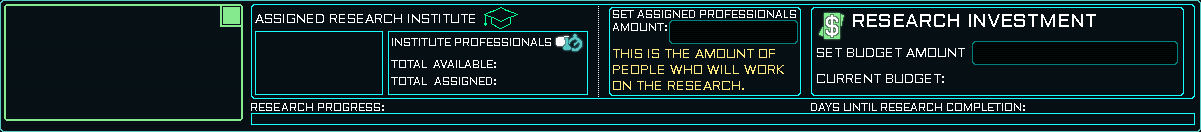
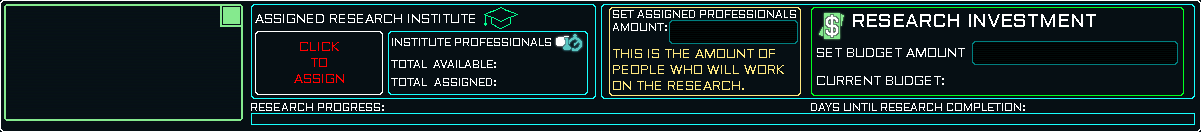
v0.051 	modified:   MenuManager.py 	modified:   __pycache__/MenuManager.cpython-311.pyc 	modified:   gfx/Interface/economic_overview/economic_overview_background.png     modified:   gfx/Interface/research_overview/active_research_background.png

diff --git a/MenuManager.py b/MenuManager.py
@@ -4903,14 +4903,23 @@ class Research_Menu:
 					
 					active_research_project_name_text_render = self.medium_scalable_font.render(active_research_project.name, False, (255,255,255))	
 					screen.blit(active_research_project_name_text_render, (709 * self.factor_x + 119 * self.factor_x - active_research_project_name_text_render.get_width()/2, 149 * self.factor_y + (index * (142 * self.factor_y)) + 158 * self.factor_y + 58 * self.factor_y - active_research_project_name_text_render.get_height()/2 + 52 * self.factor_y))					
-				
+
+					active_research_workers_amount_text_render = self.tiny_scalable_font.render(str(active_research_project.current_project_workers_amount), True, (255,255,255))	
+					screen.blit(active_research_workers_amount_text_render, (709 * self.factor_x + 506 * self.factor_x, 149 * self.factor_y + 58 * self.factor_y + (index * (142 * self.factor_y)) + 158 * self.factor_y))	
+					
+					active_research_workers_amount_text_render = self.tiny_scalable_font.render(str(active_research_project.current_project_workers_amount), True, (255,255,255))	
+					screen.blit(active_research_workers_amount_text_render, (709 * self.factor_x + 506 * self.factor_x, 149 * self.factor_y + 76 * self.factor_y + (index * (142 * self.factor_y)) + 158 * self.factor_y))	
+
+					active_research_current_budget_text_render = self.small_scalable_font.render(f' ${active_research_project.current_project_monthly_budget:,.2f}', True, (255,255,255))	
+					screen.blit(active_research_current_budget_text_render, (709 * self.factor_x + 954 * self.factor_x, 149 * self.factor_y + 74 * self.factor_y + (index * (142 * self.factor_y)) + 158 * self.factor_y))
+
 					active_research_days_until_completion_text_render = self.tiny_scalable_font.render(str(active_research_project.days_until_completion), True, (255,255,255))	
 					screen.blit(active_research_days_until_completion_text_render, (709 * self.factor_x + 1029 * self.factor_x, 149 * self.factor_y + 101 * self.factor_y + (index * (142 * self.factor_y)) + 158 * self.factor_y))					
 				
 				self.continue_research_progress = 0
 
 				active_research_amount_text_render = self.medium_scalable_font.render('RESEARCHES: ' + str(len(self.active_research_projects)), True, (255,255,255))	
-				screen.blit(active_research_amount_text_render, (1715 * self.factor_x, 21 * self.factor_y + 158 * self.factor_y))									
+				screen.blit(active_research_amount_text_render, (1715 * self.factor_x, 22 * self.factor_y + 158 * self.factor_y))									
 		
 		if self.highlight_button == True or self.is_menu_open == True:
 			self.pygame.draw.rect(screen, (255,255,255), self.top_bar_research_button.rect, 2)
